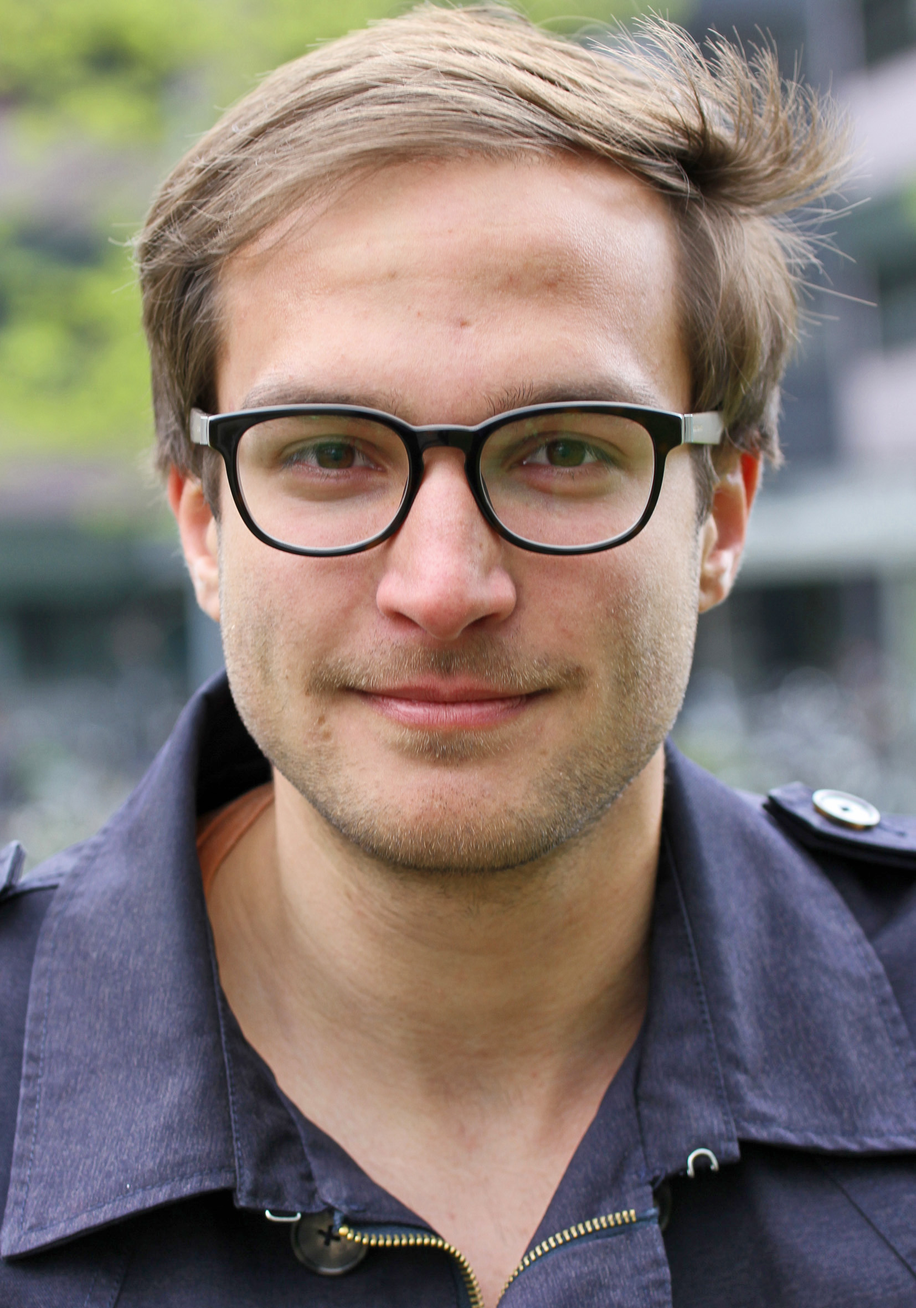
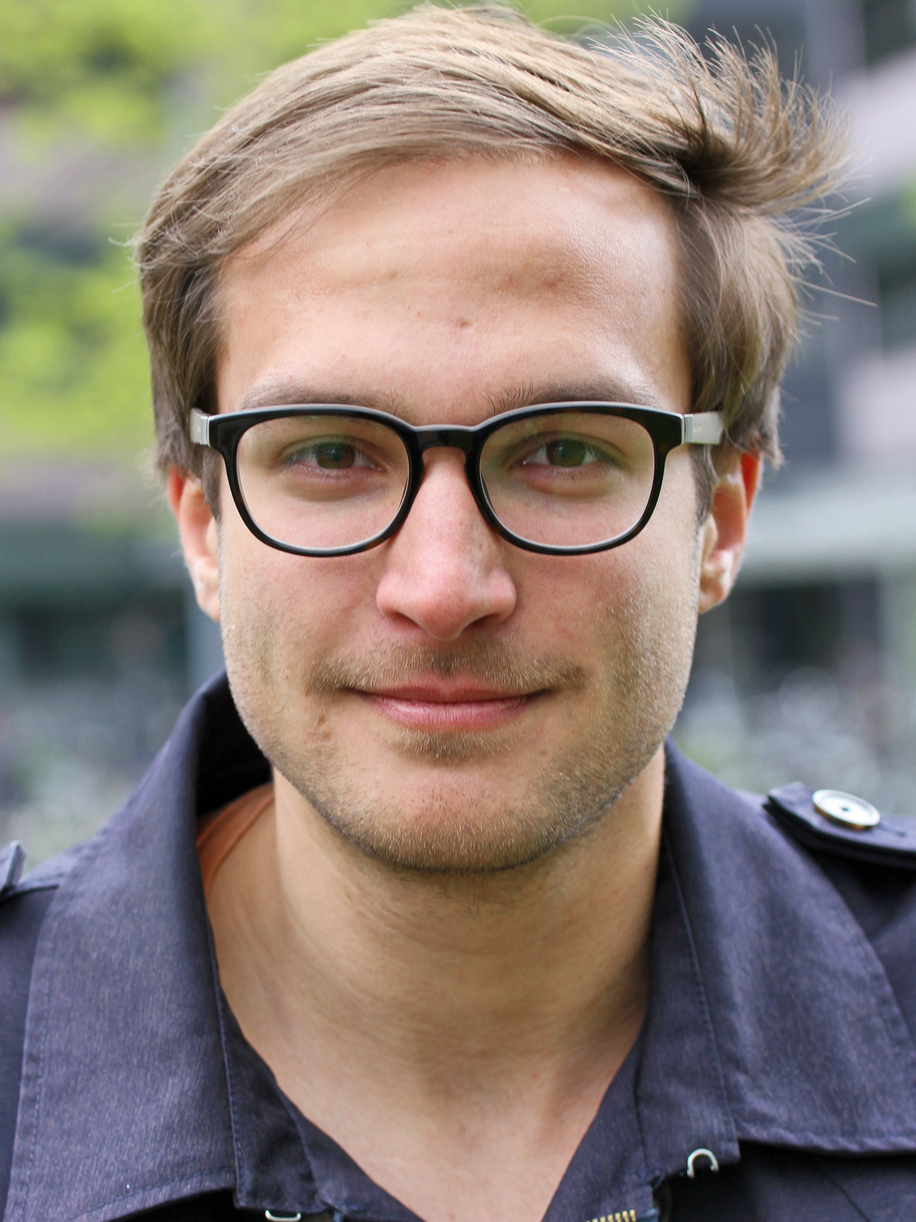
added 2 jobs + minor fixes

diff --git a/lab-members.html b/lab-members.html
@@ -357,7 +357,7 @@
         <!-- Lukas Kremer -->
   			<div class="col-sm-3 text-center">
                   <div class="thumbnail">
-                      <img class="img-lab-member" src='images/lab-members/Kremer-Lukas.png' alt="">
+                      <img class="img-lab-member" src='images/lab-members/Kremer-Lukas.jpg' alt="">
                       <div class="caption">
                           <h3> Lukas Kremer <br>
                               <small>
@@ -751,7 +751,7 @@
             <div class="row">
                 <div class="col-lg-12">
                     <!--  <p>&copy; 2017</p>  -->
-					<p>Molecular Neurobiology, Prof. Dr. Ana Martin-Villalba - 2018</p>
+					<p>Molecular Neurobiology, Prof. Dr. Ana Martin-Villalba - 2019</p>
                 </div>
             </div>
         </footer>

diff --git a/publications.html b/publications.html
@@ -1624,7 +1624,7 @@
             <div class="row">
                 <div class="col-lg-12">
                     <!--  <p>&copy; 2017</p>  -->
-					<p>Molecular Neurobiology, Prof. Dr. Ana Martin-Villalba - 2018</p>
+					<p>Molecular Neurobiology, Prof. Dr. Ana Martin-Villalba - 2019</p>
                 </div>
             </div>
         </footer>

diff --git a/404.html b/404.html
@@ -176,7 +176,7 @@
             <div class="row">
                 <div class="col-lg-12">
                     <!--  <p>&copy; 2017</p>  -->
-					<p>Molecular Neurobiology, Prof. Dr. Ana Martin-Villalba - 2018</p>
+					<p>Molecular Neurobiology, Prof. Dr. Ana Martin-Villalba - 2019</p>
                 </div>
             </div>
         </footer>

diff --git a/contact.html b/contact.html
@@ -176,7 +176,7 @@
             <div class="row">
                 <div class="col-lg-12">
                     <!--  <p>&copy; 2017</p>  -->
-					<p>Molecular Neurobiology, Prof. Dr. Ana Martin-Villalba - 2018</p>
+					<p>Molecular Neurobiology, Prof. Dr. Ana Martin-Villalba - 2019</p>
                 </div>
             </div>
         </footer>

diff --git a/data.html b/data.html
@@ -327,7 +327,7 @@
             <div class="row">
                 <div class="col-lg-12">
                     <!--  <p>&copy; 2017</p>  -->
-					<p>Molecular Neurobiology, Prof. Dr. Ana Martin-Villalba - 2018</p>
+					<p>Molecular Neurobiology, Prof. Dr. Ana Martin-Villalba - 2019</p>
                 </div>
             </div>
         </footer>

diff --git a/index.html b/index.html
@@ -340,7 +340,7 @@
             <div class="row">
                 <div class="col-lg-12">
                     <!--  <p>&copy; 2017</p>  -->
-					<p>Molecular Neurobiology, Prof. Dr. Ana Martin-Villalba - 2018</p>
+					<p>Molecular Neurobiology, Prof. Dr. Ana Martin-Villalba - 2019</p>
                 </div>
             </div>
         </footer>

diff --git a/research.html b/research.html
@@ -207,7 +207,7 @@
             <div class="row">
                 <div class="col-lg-12">
                     <!--  <p>&copy; 2017</p>  -->
-					<p>Molecular Neurobiology, Prof. Dr. Ana Martin-Villalba - 2018</p>
+					<p>Molecular Neurobiology, Prof. Dr. Ana Martin-Villalba - 2019</p>
                 </div>
             </div>
         </footer>

diff --git a/shinyapps.html b/shinyapps.html
@@ -264,7 +264,7 @@
             <div class="row">
                 <div class="col-lg-12">
                     <!--  <p>&copy; 2017</p>  -->
-					<p>Molecular Neurobiology, Prof. Dr. Ana Martin-Villalba - 2018</p>
+					<p>Molecular Neurobiology, Prof. Dr. Ana Martin-Villalba - 2019</p>
                 </div>
             </div>
         </footer>
